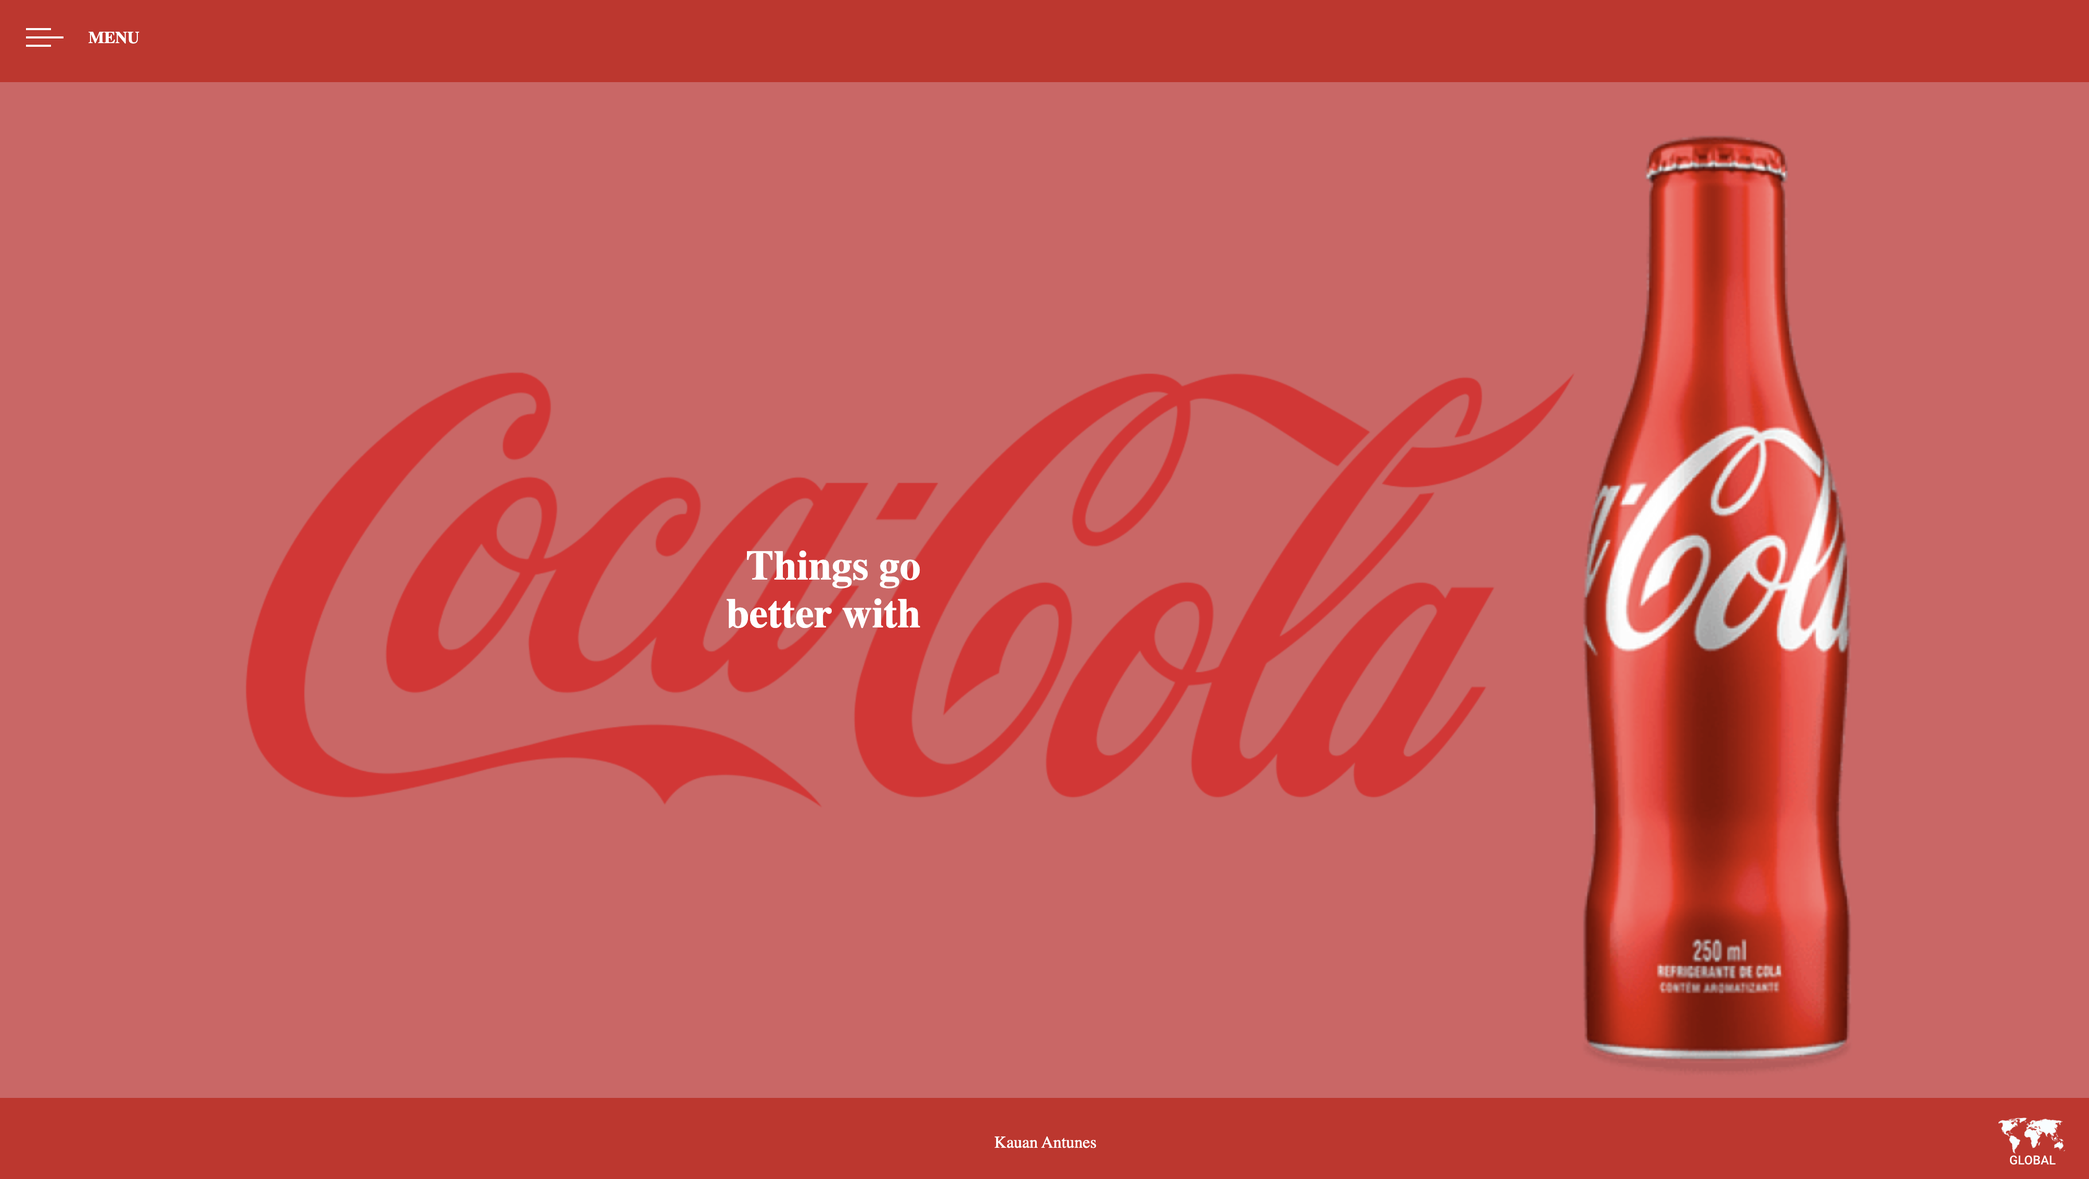
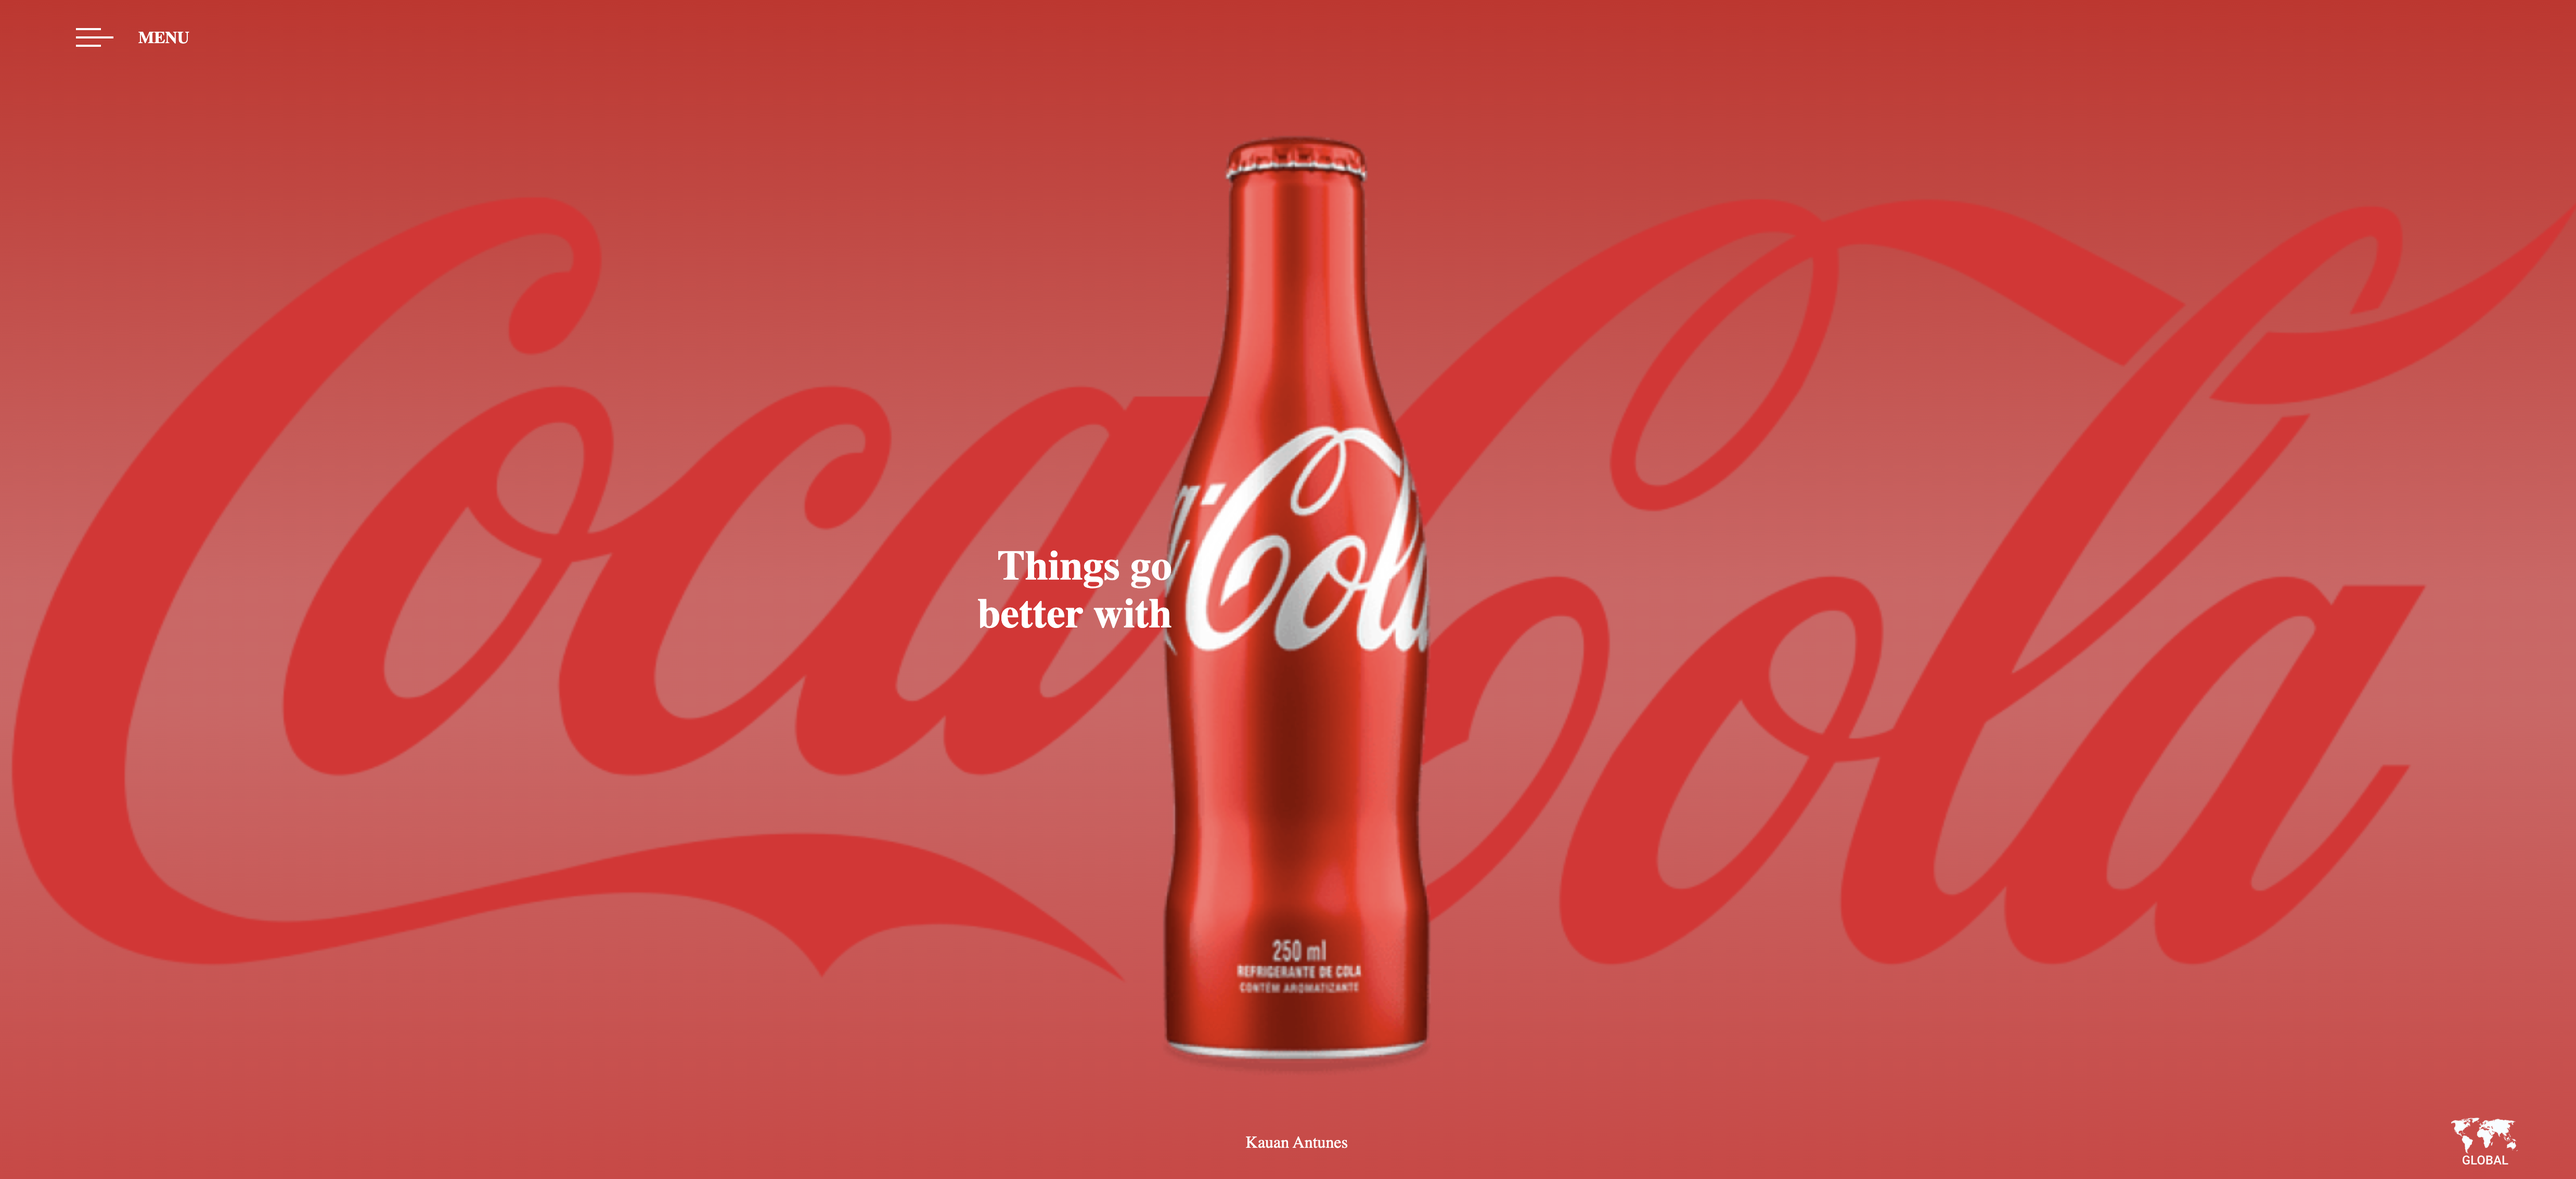
ätualizaçao de tudo

diff --git a/index.html b/index.html
@@ -12,7 +12,7 @@
     <span>MENU</span>
   </header>
   <main>
-    <img src="./img/background-image.png" alt="logo da coca-cola" class="background-image">
+    <img src="./img/background-image.png" alt="logo da coca-cola" class="background-logo">
     <h2 class="content-text">Things go better with</h2>
     <img src="./img/coca-cola.png" alt="garrafa coca-cola" class="content-image">
   </main>  

diff --git a/style.css b/style.css
@@ -13,7 +13,6 @@ body {
 
 header, footer {
     height: 100px;
-    background-color: #CF2425;
     color: #FFFFFF;
     display: flex;
     align-items: center;
@@ -26,7 +25,7 @@ main {
     display: flex;
     justify-content: center;
     align-items: center;
-    background-color: #DA6062;
+ 
 }
 header {
     height: 100px;
